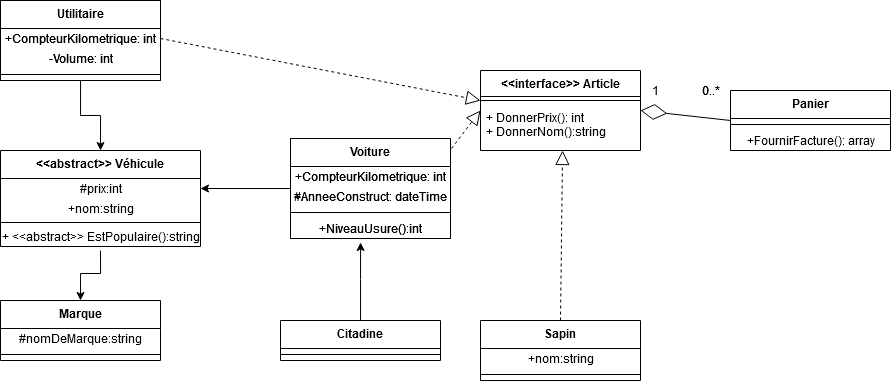
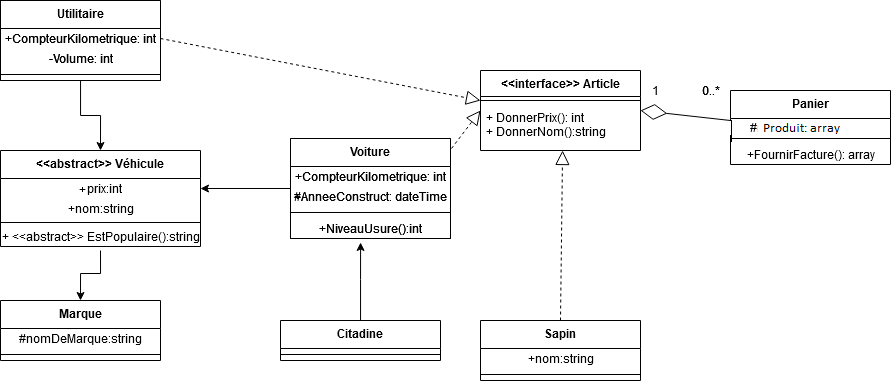
fin

Changed region(s): [[0.8182, 0.3168, 1.0, 0.4319]]

diff --git a/app/Panier.php b/app/Panier.php
@@ -4,13 +4,46 @@ namespace App;
 
 class Panier
 {
+    protected array $produits;
+    
+
+    public function FournirFacture(): array{
 
 
 
-    public function FournirFacture(){
 
+        $x = 0;//dénomination des articles
+
+        $y = "";//le nom des articles séparés par une virgule
         
-        $tab[$cle,$cledeux];
-        return $tab;
+
+        $tabl = array_filter($this->produits, function (Article $nom) {
+            return $nom->DonnerNom();
+        });
+
+        foreach ($tabl as $produit) {
+            $x = $x + $produit->DonnerPrix();
+        }
+
+        foreach ($tabl as $produit) {
+            if($y != "")
+                $y = $y.", ".$produit->DonnerNom();
+            else
+                $y = $y.$produit->DonnerNom();
+        }
+
+
+        $facture = array(
+            "cle" => $y,
+            "cle2" => $x,
+        );
+
+        return $facture;
     }
+
+    public function __construct(array $produits)
+    {
+        $this->produits = $produits;
+    }
+
 }

diff --git a/public/index.php b/public/index.php
@@ -8,22 +8,35 @@ require __DIR__.'/../vendor/autoload.php';
 
 
 
-
-
-
-
-
+//Test du panier
+/*
 $vroum = new Voiture('channel','peugot',100000,10,new DateTime('2010-01-01'));
 
-// $vroum = new Utilitaire('channel','peugot',100000,10,11);
+$vroum2 = new Utilitaire('renault','senic',100000,10,11);
 
-var_dump($vroum);
+$vroum3 = new Utilitaire('coca','pompier',100000,10,11);
 
-// $Yves = new Sapin('RoiDesForets');
+$Yves = new Sapin('RoiDesForets');
 
-// var_dump($Yves->DonnerNom());
+$tab = array($vroum,$vroum2,$vroum3,$Yves);
 
-// dump($Yves);
+$shopped = new panier($tab);
+
+var_dump($shopped);
+
+var_dump($shopped->FournirFacture());
+*/
+
+
+//Test du sapin
+/*
+
+$Yves = new Sapin('RoiDesForets');
+
+var_dump($Yves->DonnerNom());
+
+dump($Yves);
+*/
 
 // Format attendu de la facture du panier
 

diff --git a/app/Vehicule.php b/app/Vehicule.php
@@ -5,7 +5,7 @@ namespace App;
 abstract class Vehicule extends Marque
 {
     public string $nom;
-    protected int $prix;
+    public int $prix;
 
     abstract public function EstPopulaire(): string;
     
